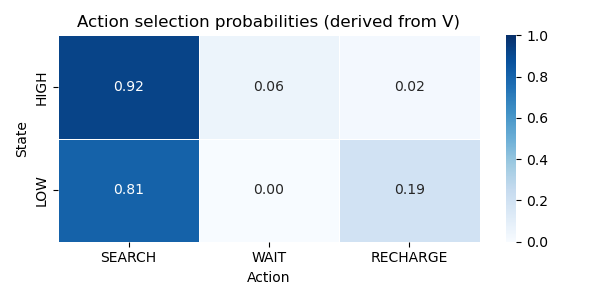
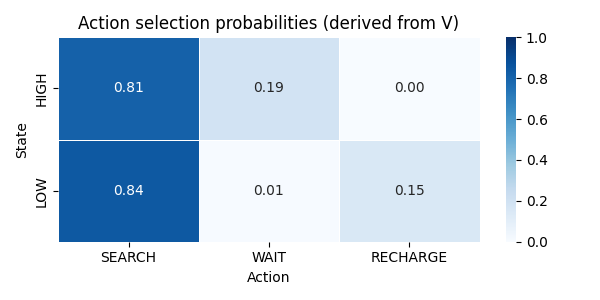
adjustments in action probability values

diff --git a/recycling_robot.py b/recycling_robot.py
@@ -30,7 +30,7 @@ class Action(Enum):
 class RecyclingRobot:
     """The Recycling Robot Environment."""
 
-    def __init__(self, alpha_prob=0.9, beta_prob=0.3, r_search=5.0, r_wait=1.0, r_rescue=-10.0):
+    def __init__(self, alpha_prob=0.9, beta_prob=0.3, r_search=5.0, r_wait=1.0, r_rescue=-3.0):
         self.states = list(State)
         self.actions = list(Action)
         self.alpha_prob = float(alpha_prob)
@@ -91,7 +91,8 @@ def policy_improvement_from_V(env: RecyclingRobot, V: dict, gamma: float):
                 elif a == Action.WAIT:
                     q = env.r_wait + gamma * V[State.HIGH]
                 else:
-                    q = 0.0 + gamma * V[State.HIGH]
+                    #q = 0.0 + gamma * V[State.HIGH]
+                    q = 0.0
             else:
                 if a == Action.SEARCH:
                     beta = env.beta_prob
@@ -122,7 +123,8 @@ def policy_action_probabilities_from_V(env: RecyclingRobot, V: dict, gamma: floa
                 elif a == Action.WAIT:
                     q = env.r_wait + gamma * V[State.HIGH]
                 else:
-                    q = 0.0 + gamma * V[State.HIGH]
+                    #q = 0.0 + gamma * V[State.HIGH]
+                    q = 0.0
             else:
                 if a == Action.SEARCH:
                     beta_p = env.beta_prob
